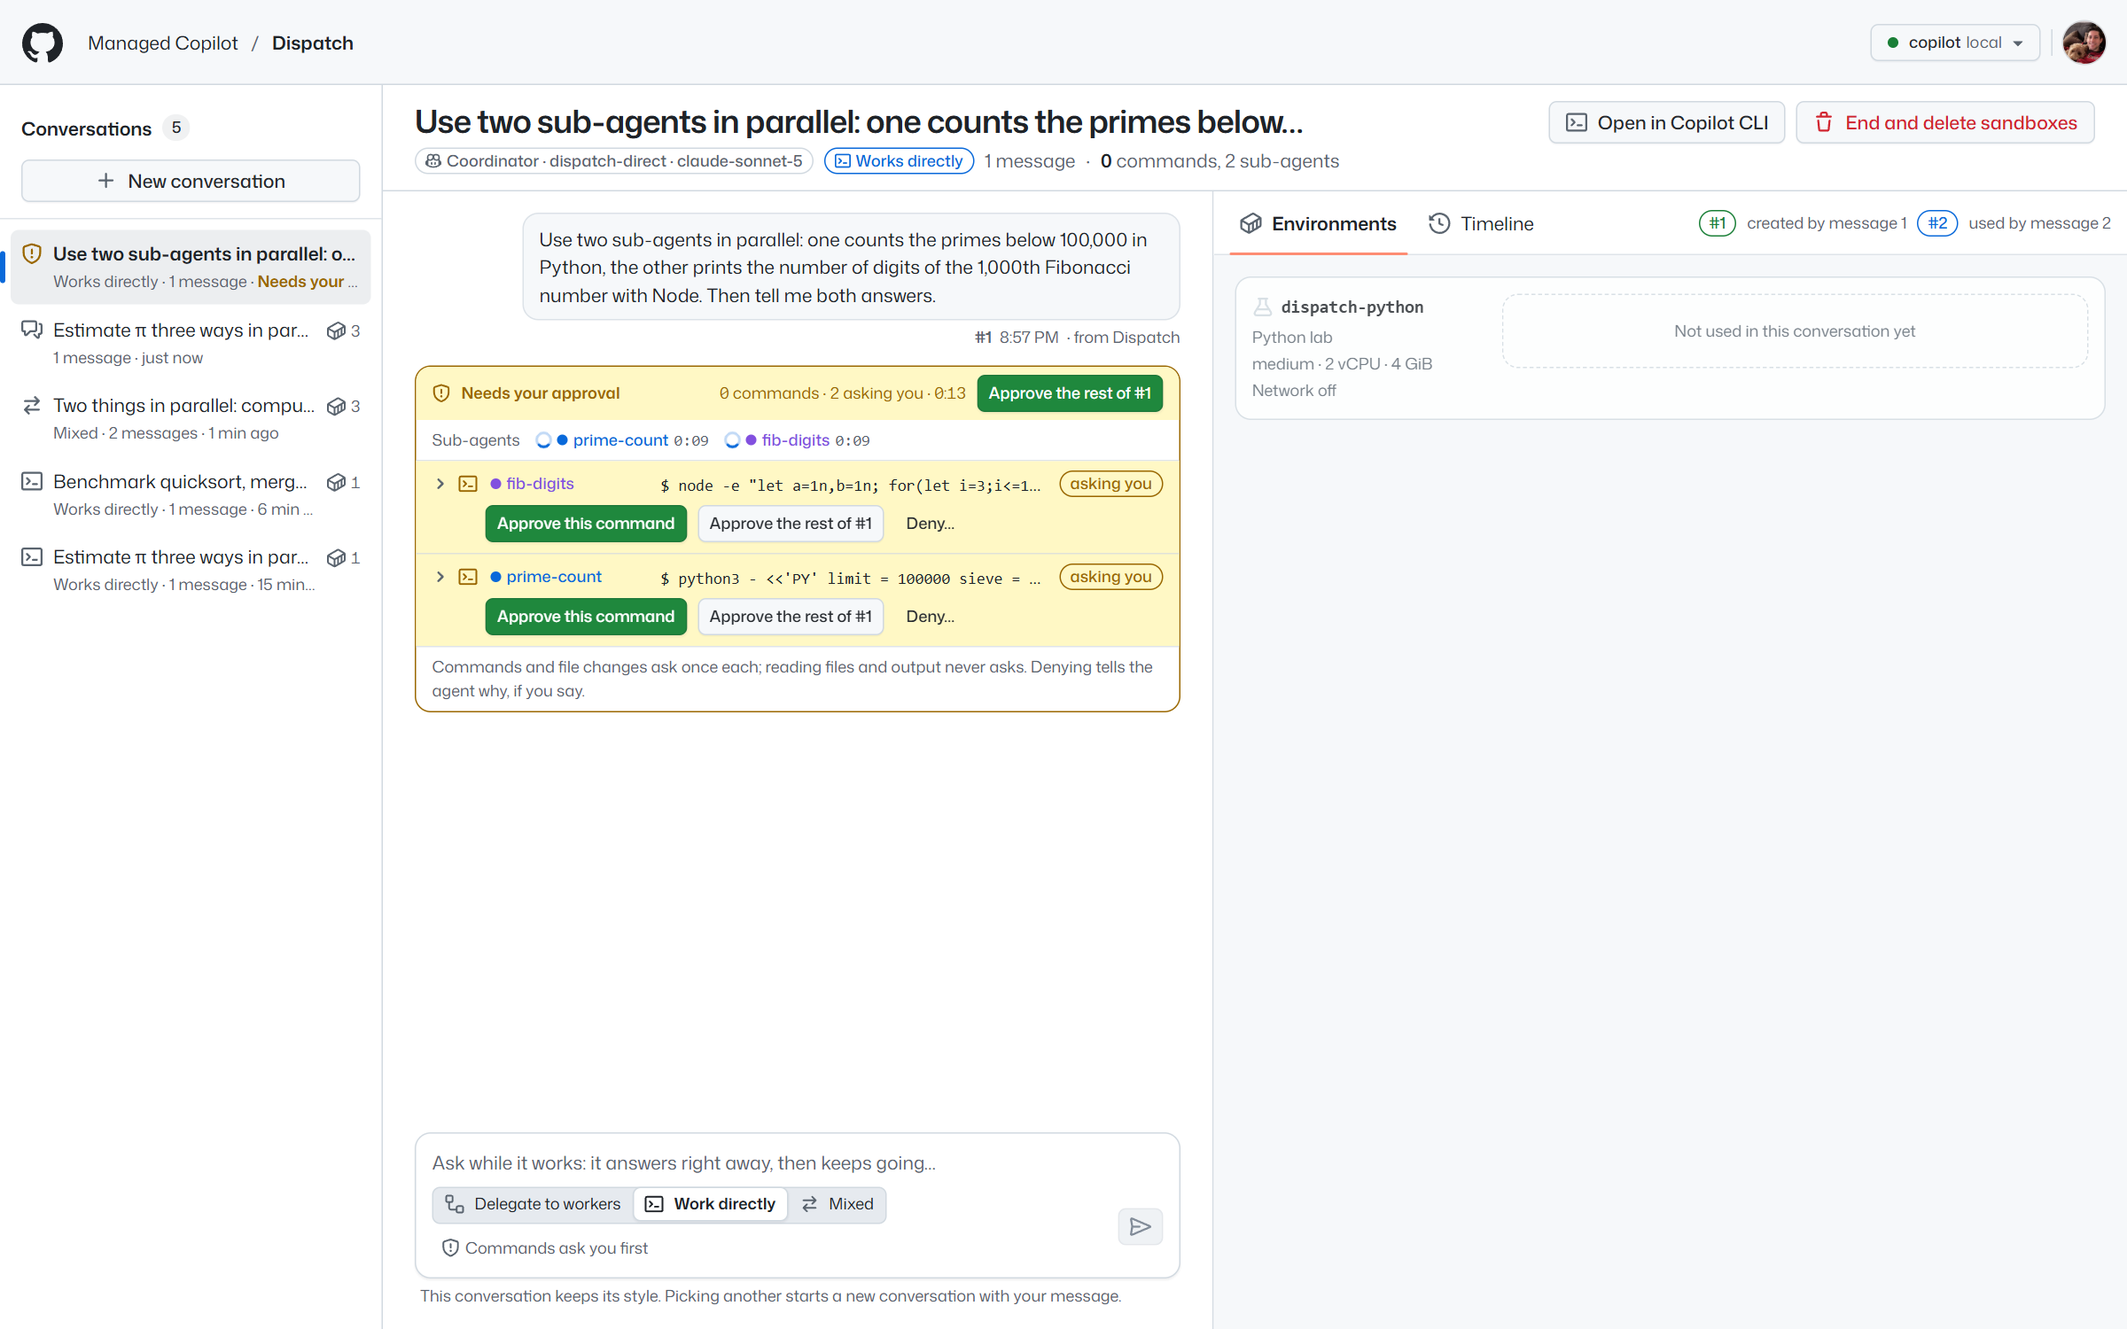
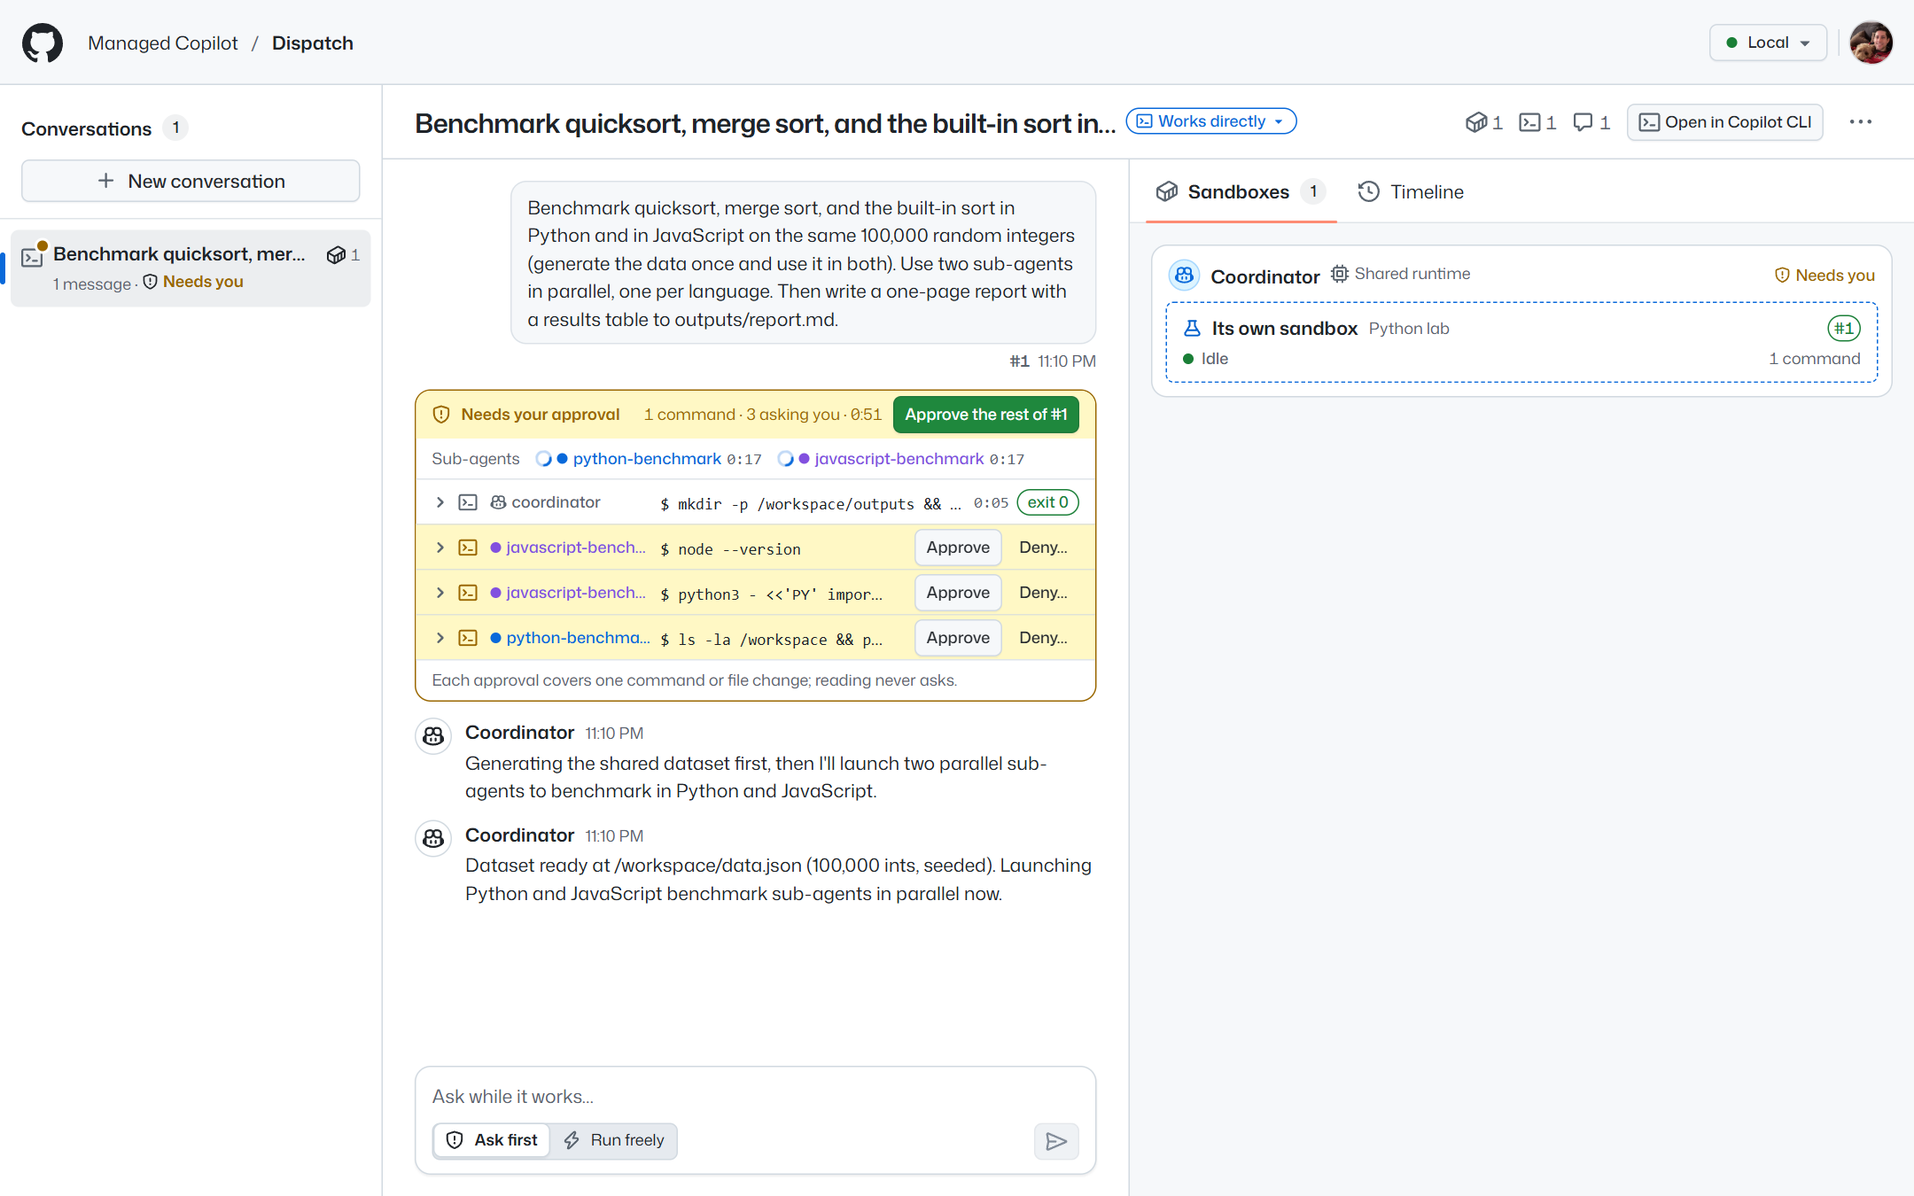
Dispatch: recapture screenshots from real runs and update the README
Every README screenshot and the gallery shot come from real runs on a local
platform with the new UI: a delegating conversation whose follow-ups reused
its three Python lab sandboxes and added a writer, a declined sandbox
request the coordinator followed, two sub-agents working directly with
inline approvals, and the new Mixed template doing its own math beside a
web research worker. The README describes the new screens and the fixture
preview; the architecture notes say where the style is chosen.

diff --git a/demos/dispatch/README.md b/demos/dispatch/README.md
@@ -1,20 +1,21 @@
 # Dispatch
 
 Talk to one agent, and watch it build the environments your request needs. Dispatch is a chat with an
-**orchestrator** agent on **Managed Copilot** ([spec section 17](../../docs/spec/developer-experience.md)). A switch
-beside the message box picks how the coordinator gets the work done: **Delegate to workers** (it creates worker agents,
+**orchestrator** agent on **Managed Copilot** ([spec section 17](../../docs/spec/developer-experience.md)). A switch in
+the home page's message box picks how the coordinator gets the work done: **Delegate to workers** (it creates worker agents,
 each in a sandbox of its own, or sends work to the ones it has), **Work directly** (it and its sub-agents run commands
 and edit files themselves, in one sandbox with no agent in it), or **Mixed** (either, as it sees fit). Dispatch shows
 each decision, each sandbox, and each command as it happens. The app is ordinary Node code built on the stock
 `@github/copilot-sdk` and `@managed-copilot/sdk`.
 
-![A delegating conversation after two messages: the first created three Python sandboxes in parallel; the second created a fourth for a chart of their errors](docs/screenshots/conversation.png)
+![A delegating conversation after three messages: three Python lab sandboxes, all reused by later messages, and a writer's desk sandbox created by message 3](docs/screenshots/conversation.png)
 
-*Delegate to workers: estimating π three ways. Message #1 started three workers, each in its own Python sandbox
-(**#1 created**). For message #2 the coordinator started `pi-error-chart` to chart all three (**#2 created**); a
-follow-up that needs a worker's files goes to that worker instead (**#2 reused**). Each message's **What the agent
-did** card lists the coordinator's decisions; the right pane groups the sandboxes by the blueprint they were made
-from.*
+*Delegate to workers: estimating π three ways. Message #1 started three workers, each in a Python lab sandbox of its
+own. #2 sent a rerun to `monte-carlo-pi`, which already had the code, and #3 sent follow-ups to all three, created
+`pi-error-report` in a writer's desk, and copied their results into it (the first copies failed while it was still
+starting, so they show as **retried**). Each message's **What the agent did** card lists the coordinator's decisions.
+The right pane shows the coordinator and only the blueprints in use; a tile's green badge is the message that created
+it, and its blue badge the last one that reused it.*
 
 ```mermaid
 flowchart LR
@@ -35,15 +36,16 @@ flowchart LR
   data instead of starting over.
 - **Decisions you can follow.** Each user message gets a card with what the coordinator did for it: sandboxes it
   created (**new**), work it sent to existing ones (**reused**), files it copied between sandboxes, workers it stopped,
-  and how long it waited for them. The coordinator spends no model time while it waits.
+  and how long it waited for them. A step that failed and was then redone shows as **retried**. The coordinator spends
+  no model time while it waits.
 - **Blueprints, not one-off containers.** The AppHost declares four worker environments with their own size and
   network policy: a Python lab (network off), a Node workshop (the npm registry only), web research (a short
   allowlist of documentation sites), and a writer's desk (network off). The coordinator's instructions describe them,
   and it picks one for each part of a request.
-- **You approve each new sandbox.** By default, starting a worker asks first, and approving it also covers what that
-  worker does in its sandbox. Deny with a reason ("this is Node work, use the Node environment") and the coordinator
-  tries again your way. Work sent to existing sandboxes never asks. Switch a conversation to **Create freely** to skip
-  the questions.
+- **You approve each new sandbox.** By default (**Ask first**), starting a worker asks first, and approving it also
+  covers what that worker does in its sandbox. Deny with a reason ("give each method its own sandbox") and the
+  coordinator tries again your way. Work sent to existing sandboxes never asks. Switch a conversation to **Run freely**
+  (the toggle under its message box) to skip the questions.
 - **The same session, from anywhere.** **Open in Copilot CLI** attaches Copilot CLI to the coordinator session (or to
   any worker's). Messages typed there appear in Dispatch, labeled **from Copilot CLI**, and the coordinator answers in
   both. Messages sent while the coordinator works go in right away: it answers between waits, then keeps waiting. While
@@ -51,25 +53,34 @@ flowchart LR
   to the app holding it, so Copilot CLI can't approve it there, but Esc in Copilot CLI cancels its turn, and Dispatch
   drops the request.
 
-<img src="docs/screenshots/approval.png" alt="A follow-up asks for a new web research sandbox: the request shows in the chat with Approve and Deny, and as a dashed card in the dispatch-web row. Message #3, from Copilot CLI, sits above it." width="900">
+<img src="docs/screenshots/approval.png" alt="The coordinator asks for three Python lab sandboxes after the person declined a single one: each request shows in the chat with Approve and Deny, Approve all 3 sits in the card's header, and each waiting sandbox shows as a dashed tile in the Python lab lane" width="900">
 
-*Message #4 needs web access, so the coordinator asks to create a sandbox from the web research blueprint. The request
-appears in the chat and in that blueprint's row. Message #3 above it was typed in Copilot CLI.*
+*Asked first for one sandbox, the person declined with a reason ("give each method its own sandbox so they run in
+parallel"); the coordinator followed it and asked for three. Each request shows in the chat and as a dashed tile in
+its blueprint's lane, where it can be approved or denied too.*
 
 <img src="docs/screenshots/timeline.png" alt="The timeline: the coordinator's waits, and a lane per sandbox showing when it was preparing, working, and idle, with markers for each message" width="900">
 
-*The **Timeline** tab: when each sandbox was preparing, working, or idle, against the messages that drove it.*
+*The **Timeline** tab: when each sandbox was preparing, working, or idle, against the messages that drove it (hover a
+bar for what it means and how long it lasted).*
 
-Select a sandbox to see its blueprint, size, network policy, and sandbox ID; its workspace files (click one to read
-it) and published outputs; every task it was given, with the message it came from; its latest report; and the command
-that opens it in Copilot CLI.
+Select a sandbox to see the work it was given (each task with the message it came from, the first three lines until
+you ask for all), its latest report, and its files (click one to read it; published outputs are marked). Its
+blueprint, size, network policy, sandbox ID, model, and the command that opens it in Copilot CLI are under
+**Details**.
+
+<img src="docs/screenshots/worker-detail.png" alt="The monte-carlo-pi sandbox selected: the work it was given, its report, and its files, with its sandbox facts folded under Details" width="900">
 
 ## Three ways to get the work done
 
 A multi-tenant harness doesn't always want an agent per sandbox: sometimes it wants its own agent and sub-agents to act
-in a sandbox directly. Dispatch shows both, side by side, on the same worker environments. The switch beside the
-message box picks the style of the **next new conversation**; a conversation keeps the style it was created with
-(picking another one in a conversation starts a new conversation with your message).
+in a sandbox directly. Dispatch shows both, side by side, on the same worker environments. On the home page, the switch
+in the message box picks a new conversation's style, and a one-line diagram under it shows that style: the coordinator
+(its brain, on the shared runtime) and the sandboxes it works through (its hands). A conversation keeps the style it was
+created with; its header shows it, and the badge's popover names the coordinator's environment and model. To try
+another style, start a new conversation.
+
+<img src="docs/screenshots/home.png" alt="The home page: the message box with the style switch and the Ask first or Run freely toggle, the selected style's diagram, template cards with the sandboxes each uses, and the blueprints as chips" width="900">
 
 | Style | Environment | What the coordinator does | What a message's card shows |
 | --- | --- | --- | --- |
@@ -77,24 +88,27 @@ message box picks the style of the **next new conversation**; a conversation kee
 | **Work directly** | `dispatch-direct` | Runs `bash`, `create`, `edit`, `view`, … itself in one Python lab sandbox (Python and Node, no network), and starts stock sub-agents with `task` for parallel parts; they share the sandbox | **What it ran in its sandbox**: every command and file change, by the coordinator or a named sub-agent, with exit codes and output |
 | **Mixed** | `dispatch-mixed` | Works in its own Python lab sandbox, and creates workers in any blueprint when a part needs another environment or should run on its own; the model decides | Both cards |
 
-![Working directly: two sub-agents benchmarked sorts in Python and JavaScript in one sandbox; the card lists every command with who ran it and its exit code, and the right pane shows the coordinator's sandbox with the commands the platform recorded](docs/screenshots/direct.png)
+![Working directly: two sub-agents benchmarked sorts in Python and JavaScript in one sandbox; the card lists every command with who ran it and its exit code, and the right pane shows the coordinator with its own sandbox and the commands the platform recorded there](docs/screenshots/direct.png)
 
-*Work directly. The coordinator generated the data, then two sub-agents (**python-benchmark** and **js-benchmark**, each
-with its color) wrote and ran their benchmarks in the same sandbox, and the coordinator wrote the report. Click a row
-for its output. The right pane shows the **coordinator's sandbox**: no agent runs in it, so it has no task or report;
-instead it lists the commands the platform recorded there (`managed.exec.list`), with the agent that ran each one.*
+*Work directly. The coordinator generated the data, then two sub-agents (**python-benchmark** and
+**javascript-benchmark**, each with its color) wrote and ran their benchmarks in the same sandbox, and the coordinator
+wrote the report. Click a row for its output. In the right pane, the coordinator's card holds **its own sandbox**
+(dashed: no agent runs in it, so it has no task or report) with the sub-agents working there; selected, it lists the
+commands the platform recorded (`managed.exec.list`), with the agent that ran each one, and its files.*
 
 In direct and mixed conversations, every `bash`, `write_bash`, `create`, and `edit` asks first (reading files and
-output never asks). There can be many per message, so the request shows inline, in the message's list, with
-**Approve this command**, **Approve the rest of #N** (this one and every later command and file change for the same
-message), and **Deny…** with an optional reason the agent is told. **Run freely** skips the questions.
+output never asks). There can be many per message, so each request shows inline, in the message's list, with
+**Approve** and **Deny…** (with an optional reason the agent is told). **Approve the rest of #N**, in the card's header,
+approves the waiting ones and every later command and file change for the same message. **Run freely** skips the
+questions.
 
-<img src="docs/screenshots/direct-approval.png" alt="Two sub-agents each asking to run a command; each row has Approve this command, Approve the rest of #1, and Deny, and the card's header has Approve the rest of #1" width="900">
+<img src="docs/screenshots/direct-approval.png" alt="Two sub-agents asking to run three commands; each row has Approve and Deny, and the card's header has Approve the rest of #1" width="900">
 
-![Mixed: message 1 started two workers (a Python one and a web research one); message 2 asked the coordinator to work itself, and it ran the command in its own sandbox, which sits next to the worker in the Python lab row](docs/screenshots/mixed.png)
+![Mixed: in one message the coordinator ran a Lucas–Lehmer test in its own Python lab sandbox and created a web research worker to check Wikipedia; the right pane shows its own sandbox inside its card and the worker in the Web research lane](docs/screenshots/mixed.png)
 
-*Mixed. For message #1 the coordinator chose two workers, one with web access; for #2 it ran the longer series itself, in
-its own sandbox, and published `summary.md`.*
+*Mixed, with the **Prime check, with sources** template. In one message the coordinator tested 2^89 − 1 and 2^97 − 1
+itself, in its own Python lab sandbox (no network), and created `wiki-mersenne`, a web research worker, to check
+Wikipedia, since only that blueprint can reach it. Its answer compares the two, with the link.*
 
 ## Run it
 
@@ -107,12 +121,22 @@ pnpm build
 aspire run          # the platform, sandboxes, and the demos; open the "dispatch" resource
 ```
 
-Dispatch opens at <http://localhost:7470>. Pick a style with the switch, pick a template, such as **Estimate π three
-ways**, and send it. Then try its follow-ups to watch the coordinator reuse its sandboxes. Measured live on a local
-deployment: estimating π three ways (three Python sandboxes in parallel) took 49 seconds from message to answer,
-approvals included; its chart follow-up (one sandbox reused, a writer's sandbox created) took 87 seconds; and the
-sorting showdown's insertion sort follow-up, which reused all three of its sandboxes, took 57 seconds. Working directly,
-two sub-agents counting primes and Fibonacci digits in one sandbox took 17 seconds once approved.
+Dispatch opens at <http://localhost:7470>. Pick a style and a template, such as **Estimate π three ways**, and send
+it. Then try its follow-ups to watch the coordinator reuse its sandboxes; **Prime check, with sources** switches to
+Mixed and shows both kinds of hands in one message. Measured live on a local deployment: estimating π three ways (three
+Python sandboxes in parallel) took 49 seconds from message to answer, approvals included; its chart follow-up (one
+sandbox reused, a writer's sandbox created) took 87 seconds; and the sorting showdown's insertion sort follow-up, which
+reused all three of its sandboxes, took 57 seconds. Working directly, two sub-agents counting primes and Fibonacci
+digits in one sandbox took 17 seconds once approved. Mixed, the prime check (its own sandbox and a web research worker,
+running freely) took about 40 seconds.
+
+### Work on the UI without a platform
+
+`pnpm exec vite` in `demos/dispatch` serves the UI alone; open it with `?preview` to run it against fixture data: a
+delegating conversation with four sandboxes (one reused), a direct one with sub-agents, a mixed one, pending sandbox
+and command approvals, and the timeline. New messages play a short simulated run. `?preview=empty`, `azure`,
+`connecting`, `unavailable`, or `offline` shows other states, and `&banner=0` hides the preview's banner. The preview
+exists only in Vite's dev mode (`import.meta.env.DEV`); production builds don't include it.
 
 ### Against another deployment
 
@@ -195,6 +219,6 @@ Copilot CLI reused one of them, and deleting the conversation deleted all three 
 | `apphost.mts` | AppHost fragment: the three orchestrator environments (one per execution style), their four worker environments, and the app resource |
 | `src/server` | Platform connection, conversations (one coordinator session each), the event projection, REST and server-sent events |
 | `src/shared` | Types shared with the UI, blueprint labels, and templates |
-| `src/web` | The UI (React, Tailwind, and GitHub's Primer look from [`libraries/github-theme`](../../libraries/github-theme); light and dark follow the OS) |
-| `test` | Unit tests: the projection, conversations and approvals against an in-memory platform, the API, and the fragment |
+| `src/web` | The UI (React, Tailwind, and GitHub's Primer look from [`libraries/github-theme`](../../libraries/github-theme); light and dark follow the OS); `src/web/dev` is the fixture preview (`?preview`, Vite dev mode only) |
+| `test` | Unit tests: the projection, conversations and approvals against an in-memory platform, the API, the fragment, and the UI's store and helpers |
 | `Dockerfile` | The container `aspire deploy` publishes |

diff --git a/docs/architecture.md b/docs/architecture.md
@@ -1018,11 +1018,14 @@ and quickstart snippet 14).
     follow-up reused one, and deleting the conversation deleted all three sessions.
     Execution styles: the fragment declares `dispatch-direct` (`execution: "direct"`, the Python lab only) and
     `dispatch-mixed` (`execution: "mixed"`, all four) beside `dispatch`; Dispatch keeps one stock client per style's
-    environment (each `managed.client(env)`), and its composer switch picks which one a new conversation is created
-    in. Direct and mixed messages list the hands tool calls of the coordinator and its sub-agents (events with
+    environment (each `managed.client(env)`), and the home page's style switch picks which one a new conversation is
+    created in (the conversation's header then shows its style read-only; the UI has no way to change it). Direct and
+    mixed messages list the hands tool calls of the coordinator and its sub-agents (events with
     `agentId`, named by `subagent.started`; persisted, so they rebuild from history; the exit code is parsed from
     `bash`'s status line), `bash`/`write_bash`/`create`/`edit` ask in the message's list with "approve the rest of this
-    message", and the `role: "hands"` sandbox shows `managed.exec.list` with each command's agent. Verified live
+    message", and the `role: "hands"` sandbox, drawn inside the coordinator's card, shows `managed.exec.list` with each
+    command's agent. The UI's fixture preview (`?preview`, `src/web/dev`) loads only behind `import.meta.env.DEV`, so
+    production builds never include it. Verified live
     (2026-10-28, local): all three styles with real models; two background sub-agents in one hands sandbox with
     per-command approvals; a mixed coordinator that started two workers and then worked in its own sandbox; a
     Dispatch restart that rebuilt the same commands; and a message typed in an attached Copilot CLI whose `bash` call
